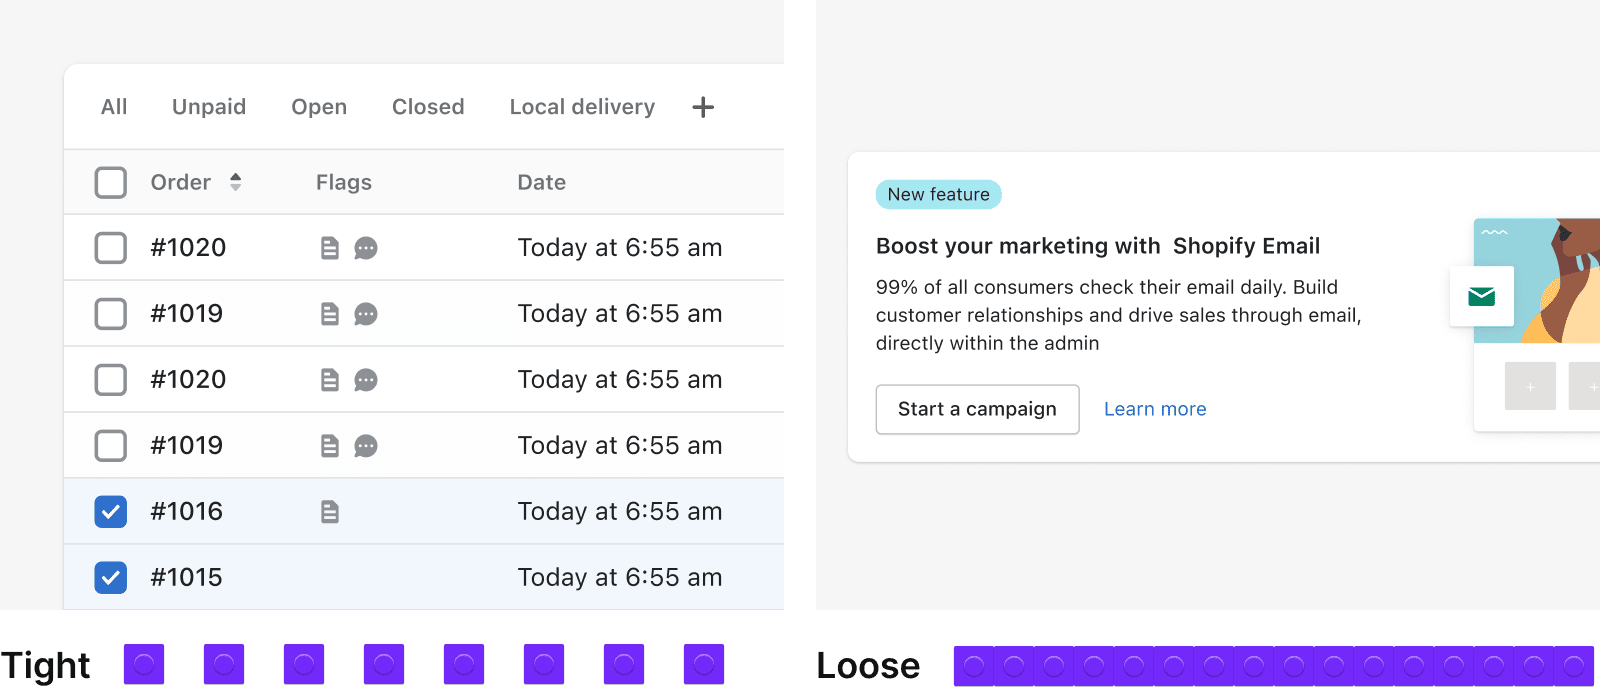
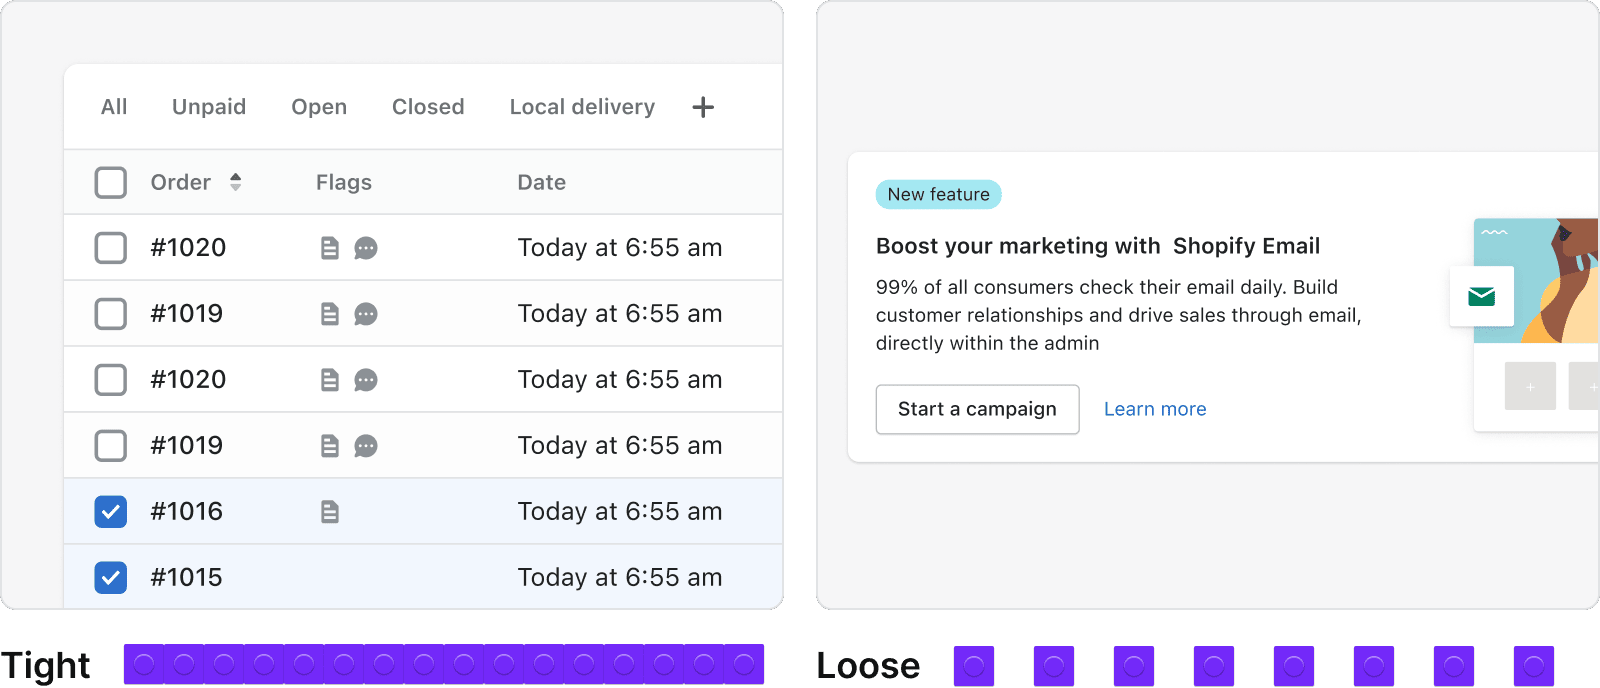
[polaris.shopify.com] Update space documentation visual example (#6885)
* updated images

* Create loud-bulldogs-wink.md

update changeset

Changed region(s): [[0.0938, 0.9157, 0.5, 1.0], [0.5938, 0.9157, 1.0, 1.0]]

diff --git a/.changeset/loud-bulldogs-wink.md b/.changeset/loud-bulldogs-wink.md
@@ -1,0 +1,5 @@
+---
+'polaris.shopify.com': patch
+---
+
+Updated mistake to visual examples in the Space documentation
